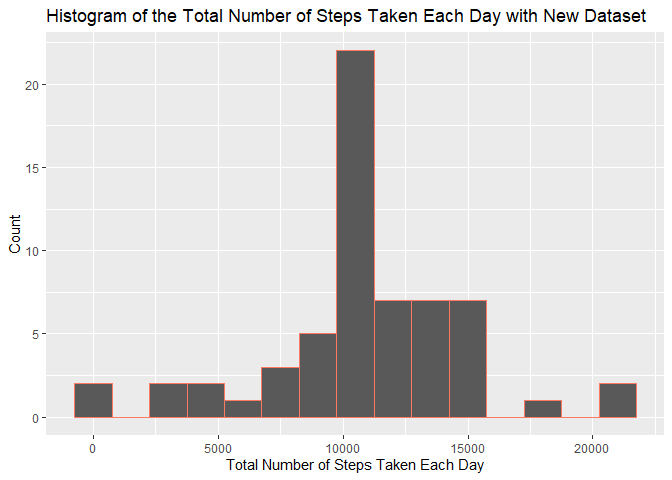
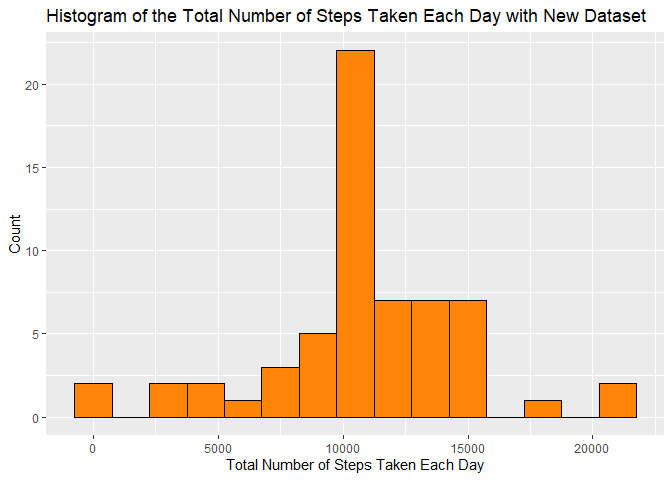
Committed Files

Changed region(s): [[0.2188, 0.0938, 0.8438, 0.875], [0.875, 0.7812, 0.9688, 0.875], [0.0938, 0.7812, 0.1875, 0.875]]

diff --git a/PA1_template.html b/PA1_template.html
@@ -524,15 +524,23 @@ newActivitysteps &lt;- aggregate(newActivitydataset$steps, by = list(newActivity
 names(newActivitysteps)[names(newActivitysteps) == &quot;x&quot;] &lt;- &quot;Total&quot;
 names(newActivitysteps)[names(newActivitysteps) == &quot;Group.1&quot;] &lt;- &quot;Date&quot;
 hist2 &lt;- ggplot(data = newActivitysteps, aes(Total)) + 
-    geom_histogram(binwidth = 1500, colour = &quot;#FF7864&quot;) +
+    geom_histogram(binwidth = 1500, colour = &quot;#000000&quot;, fill = &quot;#FF8509&quot;) +
     xlab(&quot;Total Number of Steps Taken Each Day&quot;) +
     ylab(&quot;Count&quot;) +
     ggtitle(&quot;Histogram of the Total Number of Steps Taken Each Day with New Dataset&quot;)
 print(hist2)</code></pre>
[2 lines of base64/hex data omitted]
 </div>
 <div id="are-there-differences-in-activity-patterns-between-weekdays-and-weekends" class="section level2">
 <h2>Are there differences in activity patterns between weekdays and weekends?</h2>
+<p>Compare the mean and median of Old and New data</p>
+<pre class="r"><code>library(grid)
+library(gridExtra)</code></pre>
+<pre><code>## 
+## Attaching package: &#39;gridExtra&#39;</code></pre>
+<pre><code>## The following object is masked from &#39;package:dplyr&#39;:
+## 
+##     combine</code></pre>
 </div>
 
 

diff --git a/PA1_template.md b/PA1_template.md
@@ -289,7 +289,7 @@ newActivitysteps <- aggregate(newActivitydataset$steps, by = list(newActivitydat
 names(newActivitysteps)[names(newActivitysteps) == "x"] <- "Total"
 names(newActivitysteps)[names(newActivitysteps) == "Group.1"] <- "Date"
 hist2 <- ggplot(data = newActivitysteps, aes(Total)) + 
-    geom_histogram(binwidth = 1500, colour = "#FF7864") +
+    geom_histogram(binwidth = 1500, colour = "#000000", fill = "#FF8509") +
     xlab("Total Number of Steps Taken Each Day") +
     ylab("Count") +
     ggtitle("Histogram of the Total Number of Steps Taken Each Day with New Dataset")
@@ -300,4 +300,20 @@ print(hist2)
 
 ## Are there differences in activity patterns between weekdays and weekends?
 
+Compare the mean and median of Old and New data
 
+```r
+library(grid)
+library(gridExtra)
+```
+
+```
+## 
+## Attaching package: 'gridExtra'
+```
+
+```
+## The following object is masked from 'package:dplyr':
+## 
+##     combine
+```
